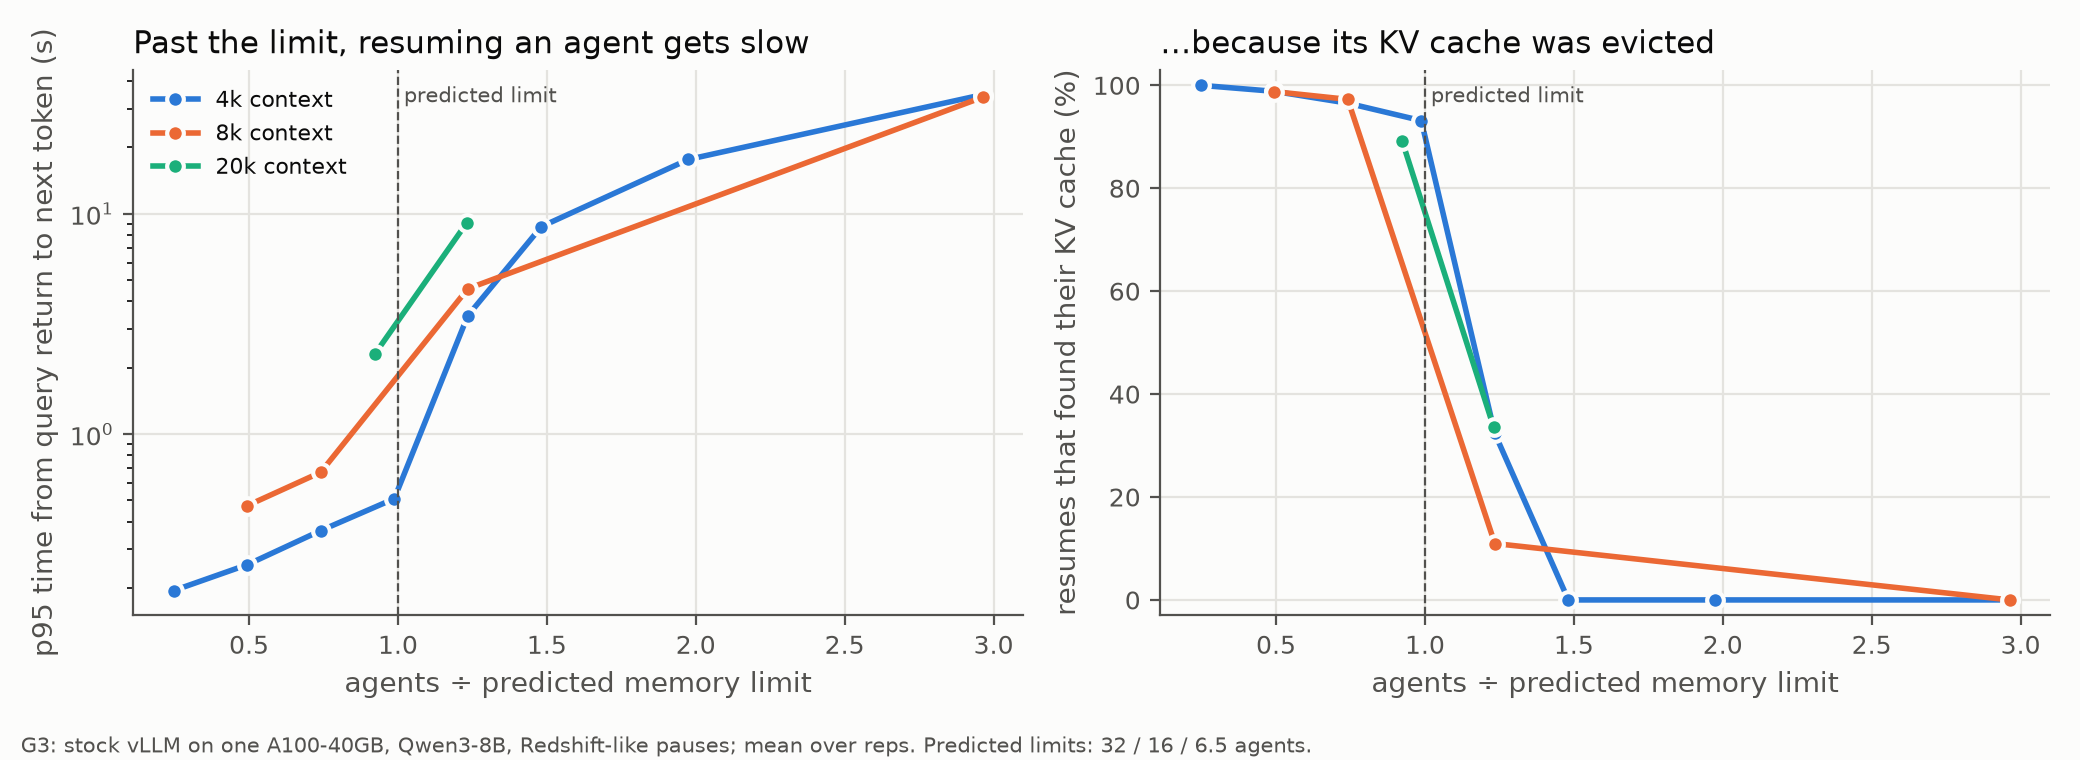
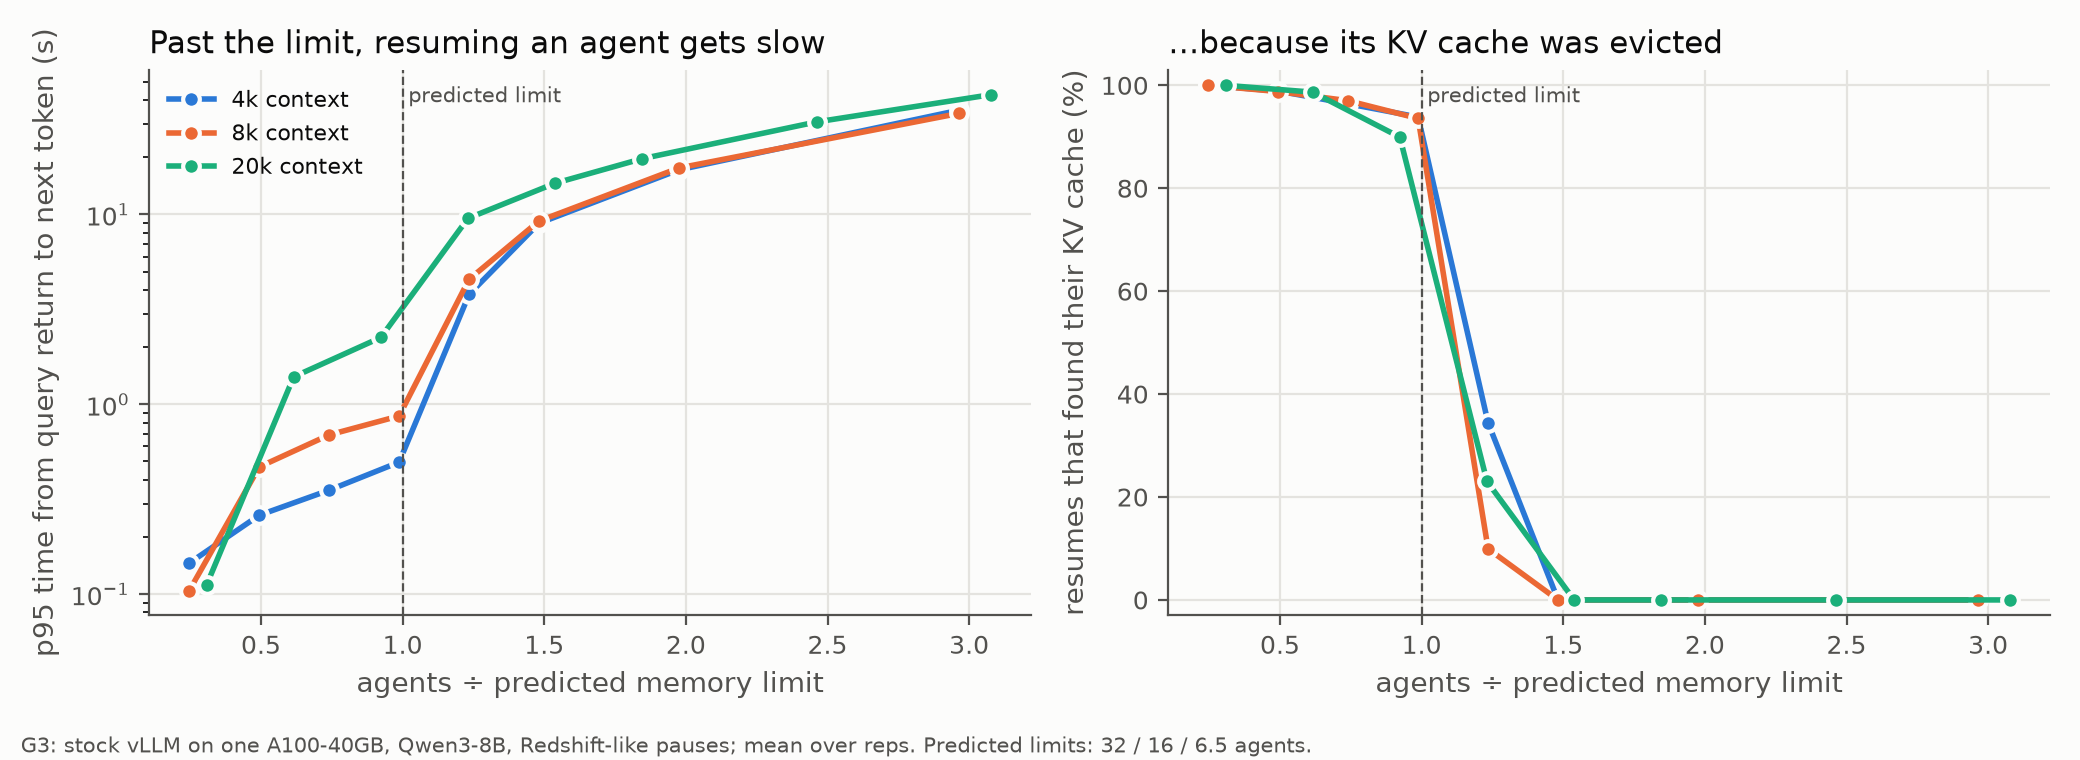
G3 result: not killed; limits just below predicted (cliff between predicted N and +25%); recompute+requeue 24-75% of p95 above limit (1.26 GPU node-h)

diff --git a/docs/PLAN.md b/docs/PLAN.md
@@ -14,7 +14,7 @@ CS 5470, done **solo** by Aryan Patel (ap2568); the team has not agreed on a dir
 | G1 oracle simulation | **v2a done** (60825742, 18 min, 0.074 CPU node-h; guessed costs). **No crossover:** the oracle gap is ≤ 10.6% at 1–30× pause scales, mostly about 0%, with a weak 5–10% bump at pause ÷ generation ≈ 0.5–2 (20k, high load). Offload is the real lever. `keep` needs the breaker in 30% of runs; breaker-free `keep-ac` matches it at 1×. Released Continuum is 13–54% worse than `keep-ac` at 1–3× and better at 10–30×. v2b (G3 costs + SF100 mix) still to come (§2, 2a) |
 | TPC-H data | **Done** (job 60823995, 21 s, ~0.001 node-h): `$SCRATCH/dbkv/tpch/tpch_sf1.duckdb` (268 MB, 6.0M lineitem rows) and `tpch_sf10.duckdb` (2.7 GB, 60.0M rows). SF100 **done** (60824952, 20 min, 0.041 node-h; `tpch_sf100.duckdb`, 27 GiB, row counts checked). TPC-DS SF1/SF10 done (60824954, 26 s): `$SCRATCH/dbkv/tpcds/` |
 | G2 `EXPLAIN` calibration | **SF100: passes both kill tests** (60826277, 0.136 node-h). With balanced classes, unseen-template ρ = 0.83 and accuracy is 68.6% vs history's 43.4%. SF10 (60825416) was ambiguous: 93.5% of its queries are short, so class accuracy can't discriminate. SF100 query times are saved as the G1 v2b pause mix (`results/g2_sf100_pauses.txt`: p50 0.39 s, p90 2.8 s, p99 14 s) |
-| G3 memory limit | Smoke passed (60824741). **Main sweep:** 4k+8k (60825601) running on a 40GB node (KV pool 139,232 tokens). The 20k half (60825603) landed on an **A100-80GB** (KV 394,992 tokens), so it was cancelled; its data is kept as `runs/g3/main_80g_20k`, and it is **redone as 60827431** pinned to `gpu&hbm40g`. Early 4k/8k points: hits collapse at 4k × 40 (32%) and 8k × 20 (11%), close to the predicted limits of 32 and 16 |
+| G3 memory limit | **Done, not killed** (60825601 + 60827431, 1.26 GPU node-h, 40GB). The pool is 139,232 tokens. Caches collapse just past the predicted limits (32/16/6.5), from ~0.9 full hits to 0.1–0.34 at +25%. Recompute + re-queue is 24–75% of p95 per-turn latency above the limit. Prediction 1a met within grid resolution (`results/g3_summary.md`) |
 | Continuum code | **`$SCRATCH/envs/continuum-env` built** (60826039, precompiled 0.10.2 kernels, torch 2.8.0+cu128). Policies `fcfs`/`priority`/`continuum` import; no GPU test yet. Located: github.com/Hanchenli/vllm-continuum, vLLM 0.10.2; the released code uses a fixed 2 s per-tool threshold, not the paper's Eq. 1 (→ §9a). Stony Brook repo audited (→ §9b) |
 
 **Next (tier 1):** the G3 main sweep, once the subagent's script is reviewed; the G2 SF10 run, then SF100; G1 v2 (offload, a breaker visible per policy, pause scale 1/3/10/30× plus an SF100 mix, the oracle gap plotted against pause/generation time, Continuum as its own line); a draft of §8 options (a) crossover and (b) characterization pivot before Sat.
@@ -77,6 +77,12 @@ Write these on the midpoint slide before seeing results, then score them afterwa
       - *8k × 16 and 20k × 6 (at the predicted limit): KV usage peaks at 97% and 94%. 89–90% of resumes are full prefix hits. p95 resume TTFT is 1.1–1.8 s, against 0.12 s at 4k × 8 with no memory pressure.*
       - *20k × 10 (1.5× the limit): **0% full hits**. Resume TTFT p50 is 11.7 s and p95 14.7 s. No task completed in the 2-minute window.*
       - *Session-level limits come from the main sweep.*
+    - *Observed, main sweep (jobs 60825601 4k+8k and 60827431 20k; A100-40GB, 2 reps × 24 cells, 300 s measured; `results/g3_summary.md`, `g3_table.csv`):*
+      - *KV pool 139,232 tokens: +5.1% vs predicted, +3.6% vs the smoke start.*
+      - *Full-hit fraction at the predicted limit: 4k × 32 = 0.94, 8k × 16 = 0.94, 20k × 6 = 0.90. One grid step above it collapses: 4k × 40 = 0.34, 8k × 20 = 0.10, 20k × 8 = 0.23.*
+      - *The cliff sits **between the predicted limit and +25%** at all three contexts.*
+      - *By the strict rule (≥0.95 full hits, 0 preemptions), the observed limits are one grid step below the prediction: 24 (4k), 12 (8k), 4 (20k). The true value lies between that and the predicted N.*
+      - *Reading: **met to within grid resolution**, with the strict cut-off slightly conservative.*
 2. Below the limit, all policies land within 5% of each other.
 2a. **G1 prediction** *(written Nov 4, before the G1 grid ran).*
     - **Values:** at 1.5–3× the memory limit with Redshift-like pauses, at 8k and 20k context, the oracle beats the best per-tool policy by **≥15% at p95** task time. "Best per-tool policy" means the best of stock LRU, always-keep, released Continuum (2 s), Continuum Eq. 1, and fixed timeouts from 0.1 to 30 s. Below the limit, and with millisecond-only pauses, the gap is **<5%**. An `EXPLAIN` stand-in with log-space noise σ = 1 recovers **about half** of the gap.
@@ -158,6 +164,11 @@ Write these on the midpoint slide before seeing results, then score them afterwa
   - **Total about 1.5 node-h (at most 1.9), compared with the ~6 budgeted.**
 - **Amendment, Nov 4, before any G3 data, because the 4k prediction sits on the line.** G3's kill line, "no limit below 32 sessions", is judged at **8k and 20k context**, not at 4k. That is because 4k's predicted limit (≈32, prediction 1a) falls right on the line, so the 4k result would trip it by construction. The 4k row is still measured and reported in full. The 20k row was added so the line can be judged at the project's premise context.
 
+**G3 result (Nov 4, observed; the rule is unchanged): not killed.**
+- (a) A limit exists well below 32 sessions. First failure: N = 16 at 8k and N = 6 at 20k (and N = 32 at 4k, reported only).
+- (b) Recompute + re-queue share of p95 per-turn latency, (resume TTFT p95(N) − baseline) / turn e2e p95(N): 0.24–0.70 at 8k for N ≥ 20, and 0.41–0.75 at 20k for N ≥ 8. Both are far above the 10% line.
+- Above the limit, turn e2e p95 inflates 2.3–8.5× relative to the at-limit point, and from 2× the limit (4k × 96, 8k × 48, 20k × 16 and above) no task completes inside the 5-minute window.
+
 Order: G1 first, because it bounds everything. G2 can run in parallel. G3 also supplies the measured prefill, reload and capacity numbers that replace the simulator's back-of-envelope parameters.
 
 ## 4. Implementation decisions (given ~4.5 weeks)
@@ -214,7 +225,7 @@ This is a solo project, so the budget is Aryan's per-user cap: **45 GPU node-hou
 
 | Phase | Node-hours |
 |---|---|
-| G3 memory limit | Smoke passed (60824741). **Main sweep:** 4k+8k (60825601) running on a 40GB node (KV pool 139,232 tokens). The 20k half (60825603) landed on an **A100-80GB** (KV 394,992 tokens), so it was cancelled; its data is kept as `runs/g3/main_80g_20k`, and it is **redone as 60827431** pinned to `gpu&hbm40g`. Early 4k/8k points: hits collapse at 4k × 40 (32%) and 8k × 20 (11%), close to the predicted limits of 32 and 16 |
+| G3 memory limit | **Done, not killed** (60825601 + 60827431, 1.26 GPU node-h, 40GB). The pool is 139,232 tokens. Caches collapse just past the predicted limits (32/16/6.5), from ~0.9 full hits to 0.1–0.34 at +25%. Recompute + re-queue is 24–75% of p95 per-turn latency above the limit. Prediction 1a met within grid resolution (`results/g3_summary.md`) |
 | Build and debug (`shared_interactive`, 1 GPU, 4 h sessions) | ~10–20 |
 | Main sweeps (~500 runs × 15–20 min) | ~30–45, less if the simulator prunes the grid |
 | Ablations | ~15–25 |

diff --git a/results/g3_summary.md b/results/g3_summary.md
@@ -1,0 +1,60 @@
+# G3 summary: `/pscratch/sd/a/ap2568/dbkv/runs/g3/main`
+
+48 runs over 24 (ctx, N) points; metrics are means over reps.
+
+**Limit rule:** observed limit = largest N such that every grid N' <= N has rep-mean resume_full_hit_frac >= 0.95 and preemptions <= 0 in every rep.
+
+Resume turns in the measured window (turn > 0, t_req >= warmup) are full hits when recomputed <= 16 tokens; full-hit fraction and recomputed tokens are recomputed from turns.csv (not summary.json). recomp/miss = mean recomputed tokens over resumes that were not full hits (mean over reps that had any).
+
+## Per point
+
+| ctx | N | reps | TTFT p50 | TTFT p95 | task p50 | task p95 | e2e p95 | recomp/resume | recomp/miss | full hit | KV mean | KV max | waiting | preempt | prefix hit | tasks/s | pass | rq share |
+|---|---|---|---|---|---|---|---|---|---|---|---|---|---|---|---|---|---|---|
+| 4096 | 8 | 2 | 0.067 | 0.146 | 18.4 | 39.6 | 2.966 | 7 | – | 1.000 | 0.153 | 0.248 | 0.0 | 0.0 | 0.808 | 0.317 | yes | 0.000 |
+| 4096 | 16 | 2 | 0.080 | 0.260 | 23.2 | 49.7 | 3.931 | 44 | 3327 | 0.989 | 0.326 | 0.453 | 0.0 | 0.0 | 0.804 | 0.525 | yes | 0.029 |
+| 4096 | 24 | 2 | 0.100 | 0.353 | 30.6 | 53.8 | 5.454 | 140 | 3693 | 0.964 | 0.523 | 0.721 | 0.0 | 0.0 | 0.782 | 0.613 | yes | 0.038 |
+| 4096 | 32 | 2 | 0.132 | 0.495 | 39.4 | 64.0 | 7.305 | 233 | 3666 | 0.938 | 0.756 | 0.971 | 0.0 | 0.5 | 0.765 | 0.627 | no | 0.048 |
+| 4096 | 40 | 2 | 1.171 | 3.790 | 80.8 | 118.5 | 18.536 | 2440 | 3716 | 0.344 | 0.945 | 1.000 | 2.6 | 13.5 | 0.332 | 0.360 | no | 0.197 |
+| 4096 | 48 | 2 | 5.563 | 8.988 | 121.8 | 148.0 | 23.368 | 3852 | 3852 | 0.000 | 0.959 | 1.000 | 10.4 | 19.5 | 0.030 | 0.258 | no | 0.378 |
+| 4096 | 64 | 2 | 13.685 | 17.172 | 164.0 | 196.3 | 31.825 | 3871 | 3871 | 0.000 | 0.961 | 1.000 | 26.5 | 20.0 | 0.013 | 0.208 | no | 0.535 |
+| 4096 | 96 | 2 | 24.887 | 35.354 | – | – | 49.646 | 3765 | 3765 | 0.000 | 0.952 | 1.000 | 54.9 | 23.5 | 0.000 | 0.000 | no | 0.709 |
+| 8192 | 4 | 2 | 0.075 | 0.104 | 19.0 | 38.6 | 3.087 | 7 | – | 1.000 | 0.159 | 0.255 | 0.0 | 0.0 | 0.819 | 0.160 | yes | 0.000 |
+| 8192 | 8 | 2 | 0.086 | 0.468 | 23.8 | 53.0 | 4.414 | 85 | 6426 | 0.988 | 0.325 | 0.483 | 0.0 | 0.0 | 0.812 | 0.245 | yes | 0.082 |
+| 8192 | 12 | 2 | 0.100 | 0.690 | 30.4 | 58.2 | 5.769 | 238 | 7730 | 0.970 | 0.543 | 0.711 | 0.1 | 0.0 | 0.794 | 0.310 | yes | 0.101 |
+| 8192 | 16 | 2 | 0.119 | 0.867 | 38.1 | 58.7 | 7.499 | 469 | 7178 | 0.936 | 0.759 | 0.946 | 0.1 | 0.0 | 0.772 | 0.332 | no | 0.102 |
+| 8192 | 20 | 2 | 2.598 | 4.550 | 97.4 | 116.4 | 18.892 | 6508 | 7226 | 0.099 | 0.933 | 0.999 | 1.8 | 4.5 | 0.222 | 0.140 | no | 0.235 |
+| 8192 | 24 | 2 | 6.622 | 9.233 | 127.5 | 144.1 | 23.665 | 7941 | 7941 | 0.000 | 0.937 | 1.000 | 5.8 | 7.0 | 0.019 | 0.107 | no | 0.386 |
+| 8192 | 32 | 2 | 14.057 | 17.564 | 171.2 | 188.4 | 31.780 | 8010 | 8010 | 0.000 | 0.935 | 0.998 | 13.6 | 3.5 | 0.001 | 0.098 | no | 0.549 |
+| 8192 | 48 | 2 | 27.875 | 34.028 | – | – | 48.229 | 7835 | 7835 | 0.000 | 0.933 | 0.999 | 28.3 | 7.5 | 0.000 | 0.000 | no | 0.703 |
+| 20480 | 2 | 2 | 0.087 | 0.111 | 21.0 | 49.7 | 3.955 | 7 | – | 1.000 | 0.175 | 0.309 | 0.0 | 0.0 | 0.824 | 0.067 | yes | 0.000 |
+| 20480 | 4 | 2 | 0.119 | 1.395 | 29.1 | 40.8 | 6.024 | 142 | 10024 | 0.987 | 0.451 | 0.609 | 0.1 | 0.0 | 0.817 | 0.113 | yes | 0.213 |
+| 20480 | 6 | 2 | 0.134 | 2.248 | 38.8 | 57.0 | 8.741 | 855 | 8413 | 0.899 | 0.700 | 0.900 | 0.1 | 0.0 | 0.790 | 0.122 | no | 0.244 |
+| 20480 | 8 | 2 | 3.256 | 9.541 | 93.0 | 118.9 | 22.954 | 10742 | 13640 | 0.230 | 0.817 | 1.000 | 1.2 | 2.0 | 0.378 | 0.067 | no | 0.411 |
+| 20480 | 10 | 2 | 11.774 | 14.608 | 159.4 | 174.8 | 29.064 | 20240 | 20240 | 0.000 | 0.850 | 1.000 | 3.2 | 1.5 | 0.000 | 0.033 | no | 0.499 |
+| 20480 | 12 | 2 | 17.350 | 19.669 | 187.2 | 198.5 | 34.204 | 20280 | 20280 | 0.000 | 0.850 | 0.999 | 5.1 | 0.5 | 0.000 | 0.028 | no | 0.572 |
+| 20480 | 16 | 2 | 26.979 | 30.710 | – | – | 45.059 | 20126 | 20126 | 0.000 | 0.855 | 0.997 | 8.7 | 2.5 | 0.007 | 0.000 | no | 0.679 |
+| 20480 | 20 | 2 | 37.931 | 42.739 | – | – | 57.059 | 20264 | 20264 | 0.000 | 0.856 | 0.997 | 12.3 | 0.0 | 0.000 | 0.000 | no | 0.747 |
+
+## Prediction 1a
+
+- KV pool: predicted 132,512 tokens; vLLM reported 139,232 (+5.1%).
+
+| ctx | predicted limit | pool / ctx (vLLM pool) | observed limit | first failing N | largest passing N | grid |
+|---|---|---|---|---|---|---|
+| 4096 | 32.4 | 34.0 | 24 | 32 | 24 | 8 16 24 32 40 48 64 96 |
+| 8192 | 16.2 | 17.0 | 12 | 16 | 12 | 4 8 12 16 20 24 32 48 |
+| 20480 | 6.5 | 6.8 | 4 | 6 | 4 | 2 4 6 8 10 12 16 20 |
+
+The true limit lies between the observed limit and the first failing N (grid resolution).
+
+## G3 kill-rule inputs (judged at 8k and 20k, per the Nov 4 amendment)
+
+- **(a) Limit below 32 sessions:** kill if no limit appears at N <= 32.
+  - 4096: yes (first failure at N=32) *(reported, not judged)*
+  - 8192: yes (first failure at N=16)
+  - 20480: yes (first failure at N=6)
+- **(b) Recompute + re-queue share of p95 per-turn latency:** kill if < 10%.
+  share(N) = (resume TTFT p95(N) - resume TTFT p95(N_min)) / turn e2e p95(N); e2e infl. = turn e2e p95(N) / turn e2e p95(at limit) - 1.
+  - 4096 (baseline N=8): N=32: 0.048 (e2e infl. 0.34); N=40: 0.197 (e2e infl. 2.40); N=48: 0.378 (e2e infl. 3.28); N=64: 0.535 (e2e infl. 4.84); N=96: 0.709 (e2e infl. 8.10). Max 0.709 -> >= 10% *(reported, not judged)*
+  - 8192 (baseline N=4): N=16: 0.102 (e2e infl. 0.30); N=20: 0.235 (e2e infl. 2.27); N=24: 0.386 (e2e infl. 3.10); N=32: 0.549 (e2e infl. 4.51); N=48: 0.703 (e2e infl. 7.36). Max 0.703 -> >= 10%
+  - 20480 (baseline N=2): N=6: 0.244 (e2e infl. 0.45); N=8: 0.411 (e2e infl. 2.81); N=10: 0.499 (e2e infl. 3.83); N=12: 0.572 (e2e infl. 4.68); N=16: 0.679 (e2e infl. 6.48); N=20: 0.747 (e2e infl. 8.47). Max 0.747 -> >= 10%
